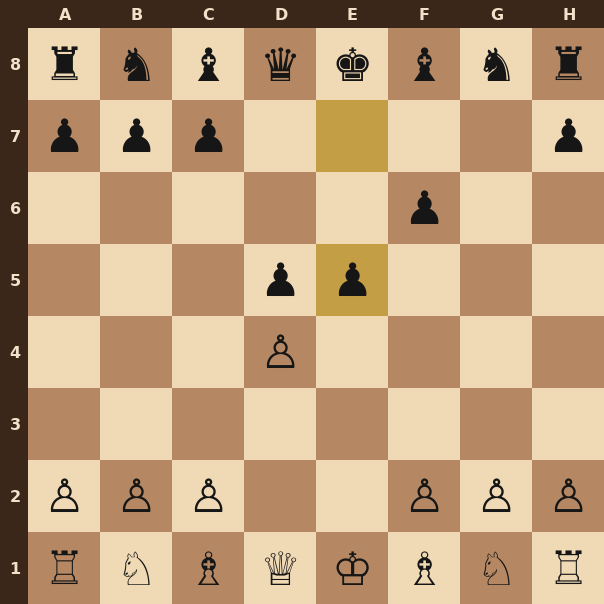
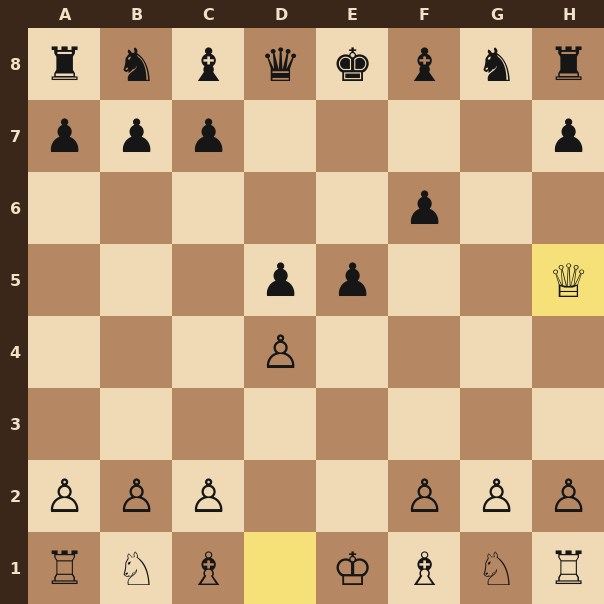
chess: update board

diff --git a/README.md b/README.md
@@ -11,29 +11,17 @@ YouTube creator | Chess player | Gamer | Tech enthusiast
 <!-- CHESS_START -->
 ### ♟ Community Chess — Krzys3n vs Guests
 
-⬜ **Your turn! Play White (bottom).** Any guest can make the next move.
+⬛ **@Krzys3n's turn (Black — top).** Restricted to the profile owner. ⚠ **CHECK!**
 
 **Series score:** Krzys3n **0** : **0** Guests *(Draws: 0)*
 
-![Wooden Chessboard](chess_images/board.png?v=8)
+![Wooden Chessboard](chess_images/board.png?v=9)
 
 #### 🎯 Choose a move (FROM → TO)
 
 | FROM | TO - click a move |
 | :---: | :--- |
-| **A2** | [A3](https://github.com/Krzys3n/Krzys3n/issues/new?title=chess%3A%20a2a3&body=Chess%20move%3A%20%60a2a3%60%0A%0AClick%20%2A%2ACreate%20new%20issue%2A%2A%20to%20play%20this%20move.), [A4](https://github.com/Krzys3n/Krzys3n/issues/new?title=chess%3A%20a2a4&body=Chess%20move%3A%20%60a2a4%60%0A%0AClick%20%2A%2ACreate%20new%20issue%2A%2A%20to%20play%20this%20move.) |
-| **B1** | [C3](https://github.com/Krzys3n/Krzys3n/issues/new?title=chess%3A%20b1c3&body=Chess%20move%3A%20%60b1c3%60%0A%0AClick%20%2A%2ACreate%20new%20issue%2A%2A%20to%20play%20this%20move.), [A3](https://github.com/Krzys3n/Krzys3n/issues/new?title=chess%3A%20b1a3&body=Chess%20move%3A%20%60b1a3%60%0A%0AClick%20%2A%2ACreate%20new%20issue%2A%2A%20to%20play%20this%20move.), [D2](https://github.com/Krzys3n/Krzys3n/issues/new?title=chess%3A%20b1d2&body=Chess%20move%3A%20%60b1d2%60%0A%0AClick%20%2A%2ACreate%20new%20issue%2A%2A%20to%20play%20this%20move.) |
-| **B2** | [B3](https://github.com/Krzys3n/Krzys3n/issues/new?title=chess%3A%20b2b3&body=Chess%20move%3A%20%60b2b3%60%0A%0AClick%20%2A%2ACreate%20new%20issue%2A%2A%20to%20play%20this%20move.), [B4](https://github.com/Krzys3n/Krzys3n/issues/new?title=chess%3A%20b2b4&body=Chess%20move%3A%20%60b2b4%60%0A%0AClick%20%2A%2ACreate%20new%20issue%2A%2A%20to%20play%20this%20move.) |
-| **C1** | [H6](https://github.com/Krzys3n/Krzys3n/issues/new?title=chess%3A%20c1h6&body=Chess%20move%3A%20%60c1h6%60%0A%0AClick%20%2A%2ACreate%20new%20issue%2A%2A%20to%20play%20this%20move.), [G5](https://github.com/Krzys3n/Krzys3n/issues/new?title=chess%3A%20c1g5&body=Chess%20move%3A%20%60c1g5%60%0A%0AClick%20%2A%2ACreate%20new%20issue%2A%2A%20to%20play%20this%20move.), [F4](https://github.com/Krzys3n/Krzys3n/issues/new?title=chess%3A%20c1f4&body=Chess%20move%3A%20%60c1f4%60%0A%0AClick%20%2A%2ACreate%20new%20issue%2A%2A%20to%20play%20this%20move.), [E3](https://github.com/Krzys3n/Krzys3n/issues/new?title=chess%3A%20c1e3&body=Chess%20move%3A%20%60c1e3%60%0A%0AClick%20%2A%2ACreate%20new%20issue%2A%2A%20to%20play%20this%20move.), [D2](https://github.com/Krzys3n/Krzys3n/issues/new?title=chess%3A%20c1d2&body=Chess%20move%3A%20%60c1d2%60%0A%0AClick%20%2A%2ACreate%20new%20issue%2A%2A%20to%20play%20this%20move.) |
-| **C2** | [C3](https://github.com/Krzys3n/Krzys3n/issues/new?title=chess%3A%20c2c3&body=Chess%20move%3A%20%60c2c3%60%0A%0AClick%20%2A%2ACreate%20new%20issue%2A%2A%20to%20play%20this%20move.), [C4](https://github.com/Krzys3n/Krzys3n/issues/new?title=chess%3A%20c2c4&body=Chess%20move%3A%20%60c2c4%60%0A%0AClick%20%2A%2ACreate%20new%20issue%2A%2A%20to%20play%20this%20move.) |
-| **D1** | [H5](https://github.com/Krzys3n/Krzys3n/issues/new?title=chess%3A%20d1h5&body=Chess%20move%3A%20%60d1h5%60%0A%0AClick%20%2A%2ACreate%20new%20issue%2A%2A%20to%20play%20this%20move.), [G4](https://github.com/Krzys3n/Krzys3n/issues/new?title=chess%3A%20d1g4&body=Chess%20move%3A%20%60d1g4%60%0A%0AClick%20%2A%2ACreate%20new%20issue%2A%2A%20to%20play%20this%20move.), [F3](https://github.com/Krzys3n/Krzys3n/issues/new?title=chess%3A%20d1f3&body=Chess%20move%3A%20%60d1f3%60%0A%0AClick%20%2A%2ACreate%20new%20issue%2A%2A%20to%20play%20this%20move.), [D3](https://github.com/Krzys3n/Krzys3n/issues/new?title=chess%3A%20d1d3&body=Chess%20move%3A%20%60d1d3%60%0A%0AClick%20%2A%2ACreate%20new%20issue%2A%2A%20to%20play%20this%20move.), [E2](https://github.com/Krzys3n/Krzys3n/issues/new?title=chess%3A%20d1e2&body=Chess%20move%3A%20%60d1e2%60%0A%0AClick%20%2A%2ACreate%20new%20issue%2A%2A%20to%20play%20this%20move.), [D2](https://github.com/Krzys3n/Krzys3n/issues/new?title=chess%3A%20d1d2&body=Chess%20move%3A%20%60d1d2%60%0A%0AClick%20%2A%2ACreate%20new%20issue%2A%2A%20to%20play%20this%20move.) |
-| **D4** | [E5](https://github.com/Krzys3n/Krzys3n/issues/new?title=chess%3A%20d4e5&body=Chess%20move%3A%20%60d4e5%60%0A%0AClick%20%2A%2ACreate%20new%20issue%2A%2A%20to%20play%20this%20move.) |
-| **E1** | [E2](https://github.com/Krzys3n/Krzys3n/issues/new?title=chess%3A%20e1e2&body=Chess%20move%3A%20%60e1e2%60%0A%0AClick%20%2A%2ACreate%20new%20issue%2A%2A%20to%20play%20this%20move.), [D2](https://github.com/Krzys3n/Krzys3n/issues/new?title=chess%3A%20e1d2&body=Chess%20move%3A%20%60e1d2%60%0A%0AClick%20%2A%2ACreate%20new%20issue%2A%2A%20to%20play%20this%20move.) |
-| **F1** | [A6](https://github.com/Krzys3n/Krzys3n/issues/new?title=chess%3A%20f1a6&body=Chess%20move%3A%20%60f1a6%60%0A%0AClick%20%2A%2ACreate%20new%20issue%2A%2A%20to%20play%20this%20move.), [B5](https://github.com/Krzys3n/Krzys3n/issues/new?title=chess%3A%20f1b5&body=Chess%20move%3A%20%60f1b5%60%0A%0AClick%20%2A%2ACreate%20new%20issue%2A%2A%20to%20play%20this%20move.), [C4](https://github.com/Krzys3n/Krzys3n/issues/new?title=chess%3A%20f1c4&body=Chess%20move%3A%20%60f1c4%60%0A%0AClick%20%2A%2ACreate%20new%20issue%2A%2A%20to%20play%20this%20move.), [D3](https://github.com/Krzys3n/Krzys3n/issues/new?title=chess%3A%20f1d3&body=Chess%20move%3A%20%60f1d3%60%0A%0AClick%20%2A%2ACreate%20new%20issue%2A%2A%20to%20play%20this%20move.), [E2](https://github.com/Krzys3n/Krzys3n/issues/new?title=chess%3A%20f1e2&body=Chess%20move%3A%20%60f1e2%60%0A%0AClick%20%2A%2ACreate%20new%20issue%2A%2A%20to%20play%20this%20move.) |
-| **F2** | [F3](https://github.com/Krzys3n/Krzys3n/issues/new?title=chess%3A%20f2f3&body=Chess%20move%3A%20%60f2f3%60%0A%0AClick%20%2A%2ACreate%20new%20issue%2A%2A%20to%20play%20this%20move.), [F4](https://github.com/Krzys3n/Krzys3n/issues/new?title=chess%3A%20f2f4&body=Chess%20move%3A%20%60f2f4%60%0A%0AClick%20%2A%2ACreate%20new%20issue%2A%2A%20to%20play%20this%20move.) |
-| **G1** | [H3](https://github.com/Krzys3n/Krzys3n/issues/new?title=chess%3A%20g1h3&body=Chess%20move%3A%20%60g1h3%60%0A%0AClick%20%2A%2ACreate%20new%20issue%2A%2A%20to%20play%20this%20move.), [F3](https://github.com/Krzys3n/Krzys3n/issues/new?title=chess%3A%20g1f3&body=Chess%20move%3A%20%60g1f3%60%0A%0AClick%20%2A%2ACreate%20new%20issue%2A%2A%20to%20play%20this%20move.), [E2](https://github.com/Krzys3n/Krzys3n/issues/new?title=chess%3A%20g1e2&body=Chess%20move%3A%20%60g1e2%60%0A%0AClick%20%2A%2ACreate%20new%20issue%2A%2A%20to%20play%20this%20move.) |
-| **G2** | [G3](https://github.com/Krzys3n/Krzys3n/issues/new?title=chess%3A%20g2g3&body=Chess%20move%3A%20%60g2g3%60%0A%0AClick%20%2A%2ACreate%20new%20issue%2A%2A%20to%20play%20this%20move.), [G4](https://github.com/Krzys3n/Krzys3n/issues/new?title=chess%3A%20g2g4&body=Chess%20move%3A%20%60g2g4%60%0A%0AClick%20%2A%2ACreate%20new%20issue%2A%2A%20to%20play%20this%20move.) |
-| **H2** | [H3](https://github.com/Krzys3n/Krzys3n/issues/new?title=chess%3A%20h2h3&body=Chess%20move%3A%20%60h2h3%60%0A%0AClick%20%2A%2ACreate%20new%20issue%2A%2A%20to%20play%20this%20move.), [H4](https://github.com/Krzys3n/Krzys3n/issues/new?title=chess%3A%20h2h4&body=Chess%20move%3A%20%60h2h4%60%0A%0AClick%20%2A%2ACreate%20new%20issue%2A%2A%20to%20play%20this%20move.) |
+| **E8** | [E7](https://github.com/Krzys3n/Krzys3n/issues/new?title=chess%3A%20e8e7&body=Chess%20move%3A%20%60e8e7%60%0A%0AClick%20%2A%2ACreate%20new%20issue%2A%2A%20to%20play%20this%20move.), [D7](https://github.com/Krzys3n/Krzys3n/issues/new?title=chess%3A%20e8d7&body=Chess%20move%3A%20%60e8d7%60%0A%0AClick%20%2A%2ACreate%20new%20issue%2A%2A%20to%20play%20this%20move.) |
 
 #### How to play
 Click a move link in **FROM → TO** to open a pre-filled Issue, then click **Create new issue**. GitHub Actions validates the move, updates the board, and closes the Issue. *(Inspired by [timburgan](https://github.com/timburgan)).*
@@ -42,11 +30,11 @@ Click a move link in **FROM → TO** to open a pre-filled Issue, then click **Cr
 
 | Move | Who |
 | :--- | :--- |
+| D1 to H5 | @Krzys3n |
 | E7 to E5 | @Krzys3n |
 | D2 to D4 | @Krzys3n |
 | G7 to F6 | @Krzys3n |
 | E5 to F6 | @Krzys3n |
-| F7 to F5 | @Krzys3n |
 
 #### Guest Leaderboard
 
